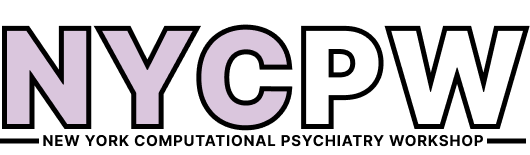
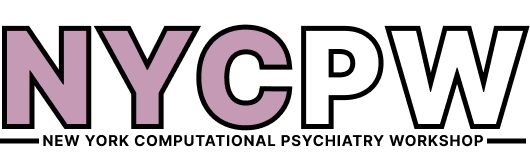
Enable 'Apply Now' button and update NYCPW image
Uncommented the 'Apply Now' button in index.html to allow users to access the application form. Updated NYCPW.png image to a new version.

Changed region(s): [[0.0, 0.1806, 0.5434, 0.8258]]

diff --git a/index.html b/index.html
@@ -88,7 +88,7 @@
 							<h1 class="white-text"><span style="color: #c49ab4">NYC</span>omputational Psychiatry Workshop</h1>
 							<h2 class="white-text">November 10-12, 2025</h2>
 							<p class="lead white-text">A specialized workshop bringing together computational methods and clinical expertise to advance understanding of mental health and psychiatric disorders.</p>
-							<!-- <a class="main-button icon-button" href="https://form.jotform.com/252448781112153">Apply Now</a> -->
+							<a class="main-button icon-button" href="https://form.jotform.com/252448781112153">Apply Now</a>
 						</div>
 					</div>
 				</div>
